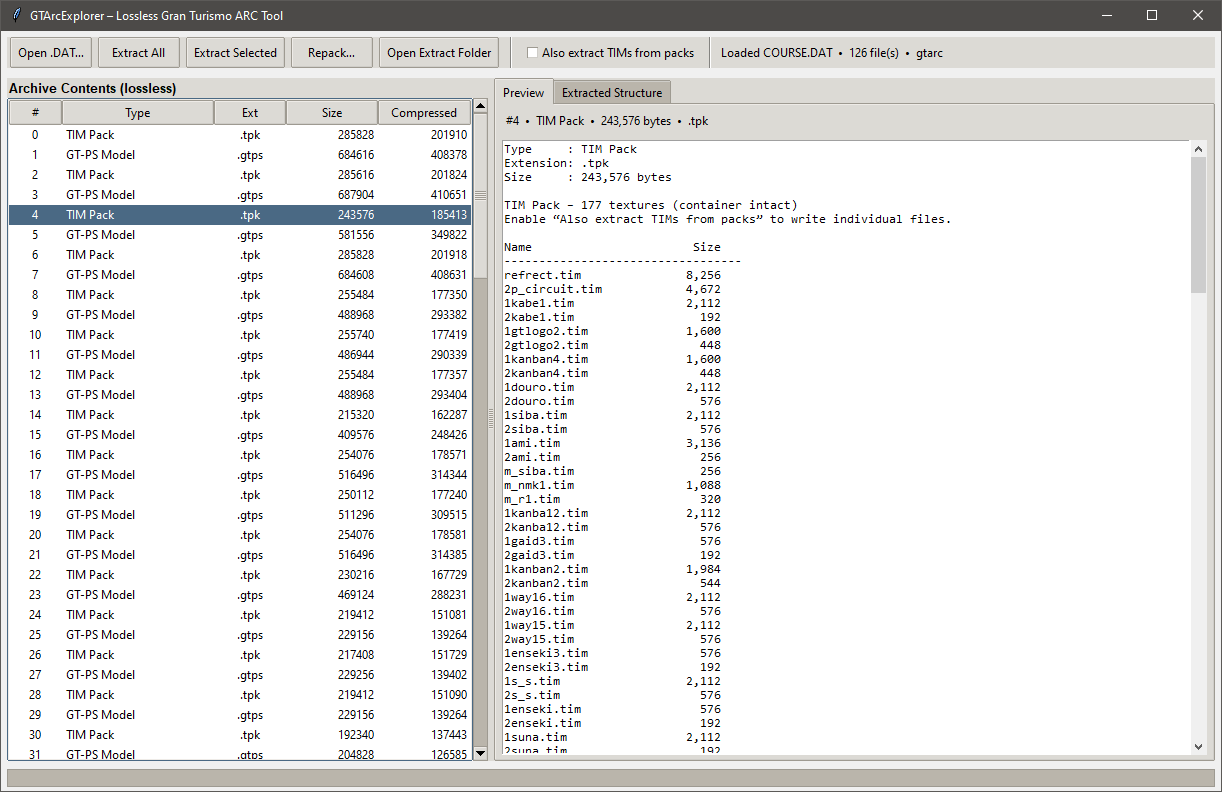
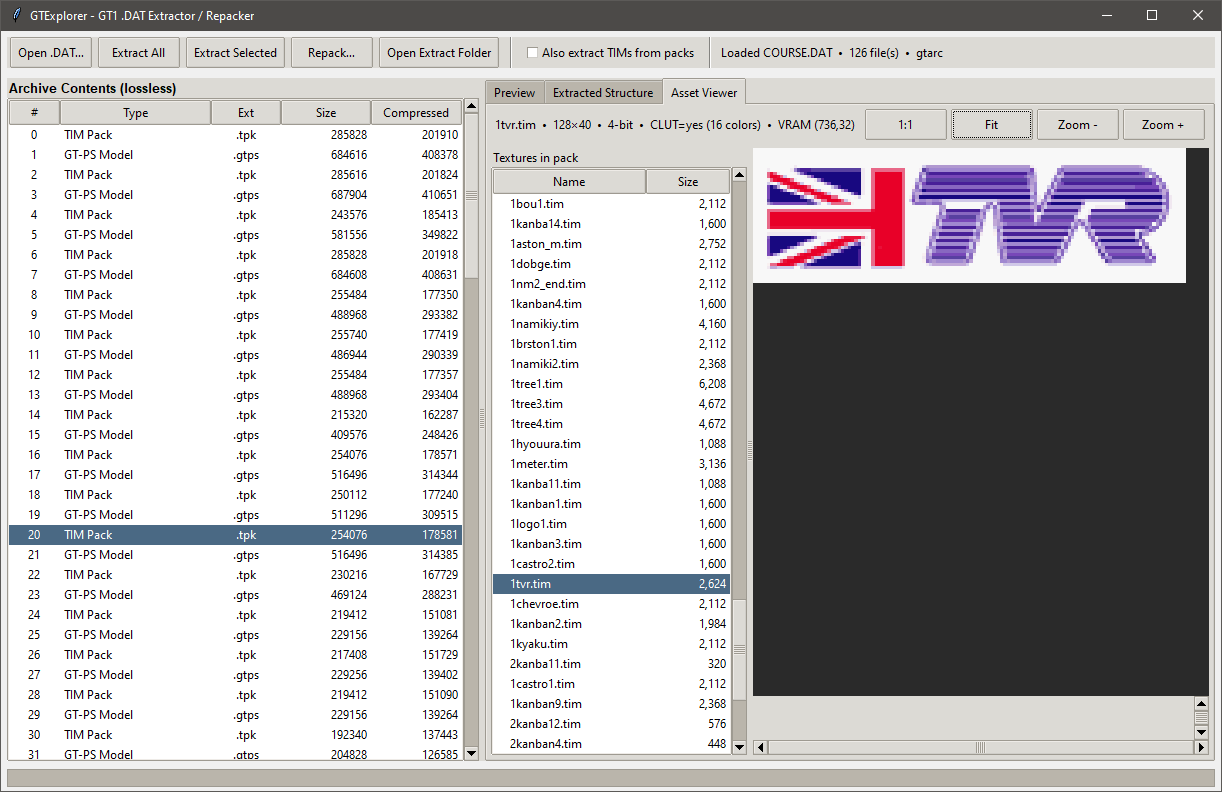
added viewer for tim's

diff --git a/main.py b/main.py
@@ -5,9 +5,15 @@ import threading
 from pathlib import Path
 from tkinter import (
     Tk, StringVar, BooleanVar, filedialog, messagebox, scrolledtext,
-    END, BOTH, LEFT, RIGHT, X, Y, TOP, BOTTOM, W
+    Canvas, END, BOTH, LEFT, RIGHT, X, Y, TOP, BOTTOM, W, NW
 )
 from tkinter import ttk
+try:
+    from PIL import Image, ImageTk
+    HAS_PIL = True
+except ImportError:
+    HAS_PIL = False
+
 
 # GT-ZIP
 def gtzip_decompress(src: bytes, decomp_size: int) -> bytes:
@@ -77,6 +83,7 @@ def gtzip_compress(data: bytes) -> bytes:
 
             if max_len >= 3:
                 h = hash3(i)
+                # search chain (limit depth for speed)
                 chain = 0
                 MAX_CHAIN = 64
                 j = head[h]
@@ -188,6 +195,123 @@ def build_tim_pack(tim_files: list) -> bytes:
         struct.pack_into("<I", out, 4 + i * 20 + 16, off)
 
     return bytes(out)
+
+
+
+def decode_tim(data: bytes):
+    """
+    Decode a PlayStation TIM into a PIL Image (RGBA).
+    Supports 4-bit, 8-bit (with CLUT) and 16-bit direct.
+    Returns (Image, info_dict) or raises ValueError.
+    """
+    from PIL import Image
+
+    if len(data) < 8 or data[0] != 0x10 or data[1] != 0x00:
+        raise ValueError("Not a TIM file")
+
+    flags = struct.unpack_from("<I", data, 4)[0]
+    bpp = flags & 7          # 0=4bit, 1=8bit, 2=16bit, 3=24bit
+    has_clut = bool(flags & 8)
+    pos = 8
+
+    palette = None
+    if has_clut:
+        if pos + 12 > len(data):
+            raise ValueError("Truncated CLUT header")
+        clut_len, cx, cy, cw, ch = struct.unpack_from("<IHHHH", data, pos)
+        pos += 12
+        ncolors = cw * ch
+        palette = []
+        for i in range(ncolors):
+            if pos + 2 > len(data):
+                break
+            c = struct.unpack_from("<H", data, pos)[0]
+            pos += 2
+            r = (c & 0x1F) << 3
+            g = ((c >> 5) & 0x1F) << 3
+            b = ((c >> 10) & 0x1F) << 3
+            a = 0 if (c & 0x8000) == 0 and c == 0 else 255
+            # STP bit: if set, semi-transparent; treat as opaque for preview
+            if c == 0:
+                a = 0
+            palette.append((r, g, b, a))
+        # align to clut_len from start of clut block
+        # (some files pad; we already consumed 12 + ncolors*2)
+
+    if pos + 12 > len(data):
+        raise ValueError("Truncated image header")
+    img_len, ix, iy, iw, ih = struct.unpack_from("<IHHHH", data, pos)
+    pos += 12
+
+    # iw is in 16-bit units (words per row)
+    if bpp == 0:   # 4-bit
+        width = iw * 4
+        bytes_per_row = iw * 2
+    elif bpp == 1:  # 8-bit
+        width = iw * 2
+        bytes_per_row = iw * 2
+    elif bpp == 2:  # 16-bit
+        width = iw
+        bytes_per_row = iw * 2
+    elif bpp == 3:  # 24-bit
+        width = (iw * 2) // 3
+        bytes_per_row = iw * 2
+    else:
+        raise ValueError(f"Unsupported BPP type {bpp}")
+
+    height = ih
+    pixels = []
+
+    for y in range(height):
+        row = data[pos:pos + bytes_per_row]
+        pos += bytes_per_row
+        if bpp == 0:  # 4-bit
+            for x in range(width):
+                byte = row[x // 2] if x // 2 < len(row) else 0
+                idx = (byte & 0x0F) if (x & 1) == 0 else (byte >> 4)
+                if palette and idx < len(palette):
+                    pixels.append(palette[idx])
+                else:
+                    v = idx * 17
+                    pixels.append((v, v, v, 255))
+        elif bpp == 1:  # 8-bit
+            for x in range(width):
+                idx = row[x] if x < len(row) else 0
+                if palette and idx < len(palette):
+                    pixels.append(palette[idx])
+                else:
+                    pixels.append((idx, idx, idx, 255))
+        elif bpp == 2:  # 16-bit
+            for x in range(width):
+                if x * 2 + 1 >= len(row):
+                    pixels.append((0, 0, 0, 0))
+                    continue
+                c = row[x * 2] | (row[x * 2 + 1] << 8)
+                r = (c & 0x1F) << 3
+                g = ((c >> 5) & 0x1F) << 3
+                b = ((c >> 10) & 0x1F) << 3
+                a = 0 if c == 0 else 255
+                pixels.append((r, g, b, a))
+        elif bpp == 3:  # 24-bit
+            for x in range(width):
+                o = x * 3
+                if o + 2 >= len(row):
+                    pixels.append((0, 0, 0, 255))
+                    continue
+                pixels.append((row[o], row[o + 1], row[o + 2], 255))
+
+    img = Image.new("RGBA", (width, height))
+    img.putdata(pixels)
+    info = {
+        "bpp": bpp,
+        "has_clut": has_clut,
+        "width": width,
+        "height": height,
+        "vram_x": ix,
+        "vram_y": iy,
+        "colors": len(palette) if palette else 0,
+    }
+    return img, info
 
 
 def detect_type(data: bytes) -> tuple:
@@ -328,9 +452,10 @@ class GTArc:
             data = self.get_data(i)
             f = self.files[i]
             name = f"{f['label']}{f['ext']}"
-            (out / name).write_bytes(data)        
+            (out / name).write_bytes(data)          # always write original bytes
             manifest.append(name)
 
+            # optional expansion
             if expand_tim_packs and f["type"] == "TIM Pack":
                 tims = parse_tim_pack(data)
                 sub = out / f"{f['label']}_tims"
@@ -373,6 +498,8 @@ class GTArc:
 
         payloads = []
         for ni, name in enumerate(names):
+            # If this is a TIM pack and a matching *_tims folder exists,
+            # rebuild the pack from the individual .tim files so edits are kept.
             p = src / name
             stem = Path(name).stem  # e.g. "000" from "000.tpk"
             tims_dir = src / f"{stem}_tims"
@@ -420,7 +547,7 @@ class GTArc:
 class GTArcExplorer(Tk):
     def __init__(self):
         super().__init__()
-        self.title("GTArcExplorer – Lossless Gran Turismo ARC Tool")
+        self.title("GTExplorer - GT1 .DAT Extractor / Repacker")
         self.geometry("1220x760")
         self.minsize(960, 620)
 
@@ -496,6 +623,52 @@ class GTArcExplorer(Tk):
         sbs.pack(side=RIGHT, fill=Y)
         self.struct_tree.configure(yscrollcommand=sbs.set)
 
+        # --- Asset Viewer tab ---
+        viewer = ttk.Frame(nb)
+        nb.add(viewer, text="Asset Viewer")
+        vtop = ttk.Frame(viewer)
+        vtop.pack(side=TOP, fill=X, padx=6, pady=4)
+        self.viewer_info = ttk.Label(vtop, text="Select a TIM / TIM Pack to preview")
+        self.viewer_info.pack(side=LEFT)
+        ttk.Button(vtop, text="Zoom +", command=lambda: self.viewer_zoom(1.25)).pack(side=RIGHT, padx=2)
+        ttk.Button(vtop, text="Zoom -", command=lambda: self.viewer_zoom(0.8)).pack(side=RIGHT, padx=2)
+        ttk.Button(vtop, text="Fit", command=self.viewer_fit).pack(side=RIGHT, padx=2)
+        ttk.Button(vtop, text="1:1", command=self.viewer_1to1).pack(side=RIGHT, padx=2)
+
+        vbody = ttk.Panedwindow(viewer, orient="horizontal")
+        vbody.pack(fill=BOTH, expand=True, padx=4, pady=4)
+
+        # TIM list inside packs
+        left_v = ttk.Frame(vbody)
+        vbody.add(left_v, weight=1)
+        ttk.Label(left_v, text="Textures in pack").pack(anchor=W)
+        self.tim_list = ttk.Treeview(left_v, columns=("size",), show="tree headings", selectmode="browse")
+        self.tim_list.heading("#0", text="Name")
+        self.tim_list.heading("size", text="Size")
+        self.tim_list.column("#0", width=140)
+        self.tim_list.column("size", width=70, anchor="e")
+        self.tim_list.pack(fill=BOTH, expand=True, side=LEFT)
+        sbt = ttk.Scrollbar(left_v, orient="vertical", command=self.tim_list.yview)
+        sbt.pack(side=RIGHT, fill=Y)
+        self.tim_list.configure(yscrollcommand=sbt.set)
+        self.tim_list.bind("<<TreeviewSelect>>", self.on_tim_list_select)
+
+        # Canvas for image
+        right_v = ttk.Frame(vbody)
+        vbody.add(right_v, weight=3)
+        self.viewer_canvas = Canvas(right_v, bg="#2a2a2a", highlightthickness=0)
+        self.viewer_canvas.pack(fill=BOTH, expand=True)
+        hsb = ttk.Scrollbar(right_v, orient="horizontal", command=self.viewer_canvas.xview)
+        hsb.pack(side=BOTTOM, fill=X)
+        vsb = ttk.Scrollbar(right_v, orient="vertical", command=self.viewer_canvas.yview)
+        vsb.pack(side=RIGHT, fill=Y)
+        self.viewer_canvas.configure(xscrollcommand=hsb.set, yscrollcommand=vsb.set)
+
+        self._viewer_image = None       # PIL Image
+        self._viewer_photo = None       # ImageTk
+        self._viewer_scale = 1.0
+        self._pack_tims = []            # list of (name, bytes) for current pack
+
         self.progress = ttk.Progressbar(self, mode="determinate")
         self.progress.pack(side=BOTTOM, fill=X, padx=6, pady=4)
 
@@ -568,6 +741,11 @@ class GTArcExplorer(Tk):
                 self.preview_text.insert(END, "-" * 34 + "\n")
                 for name, tim in tims:
                     self.preview_text.insert(END, f"{name:<20} {len(tim):>10,}\n")
+                self.show_pack_in_viewer(data)
+            elif f["type"] == "TIM Texture":
+                self.tim_list.delete(*self.tim_list.get_children())
+                self._pack_tims = []
+                self.show_in_viewer(data, f["label"] + f["ext"])
             else:
                 self.preview_text.insert(END, "=== Hex dump (first 256 bytes) ===\n")
                 chunk = data[:256]
@@ -691,6 +869,86 @@ class GTArcExplorer(Tk):
                 os.system(f'xdg-open "{self.extract_dir}"')
         else:
             messagebox.showinfo("No folder", "Extract first")
+
+
+    def show_in_viewer(self, data: bytes, label: str = ""):
+        """Decode TIM data and display it."""
+        if not HAS_PIL:
+            self.viewer_info.config(text="Pillow not installed – cannot display images")
+            return
+        try:
+            img, info = decode_tim(data)
+            self._viewer_image = img
+            self._viewer_scale = 1.0
+            bpp_names = {0: "4-bit", 1: "8-bit", 2: "16-bit", 3: "24-bit"}
+            self.viewer_info.config(
+                text=f"{label}  •  {info['width']}×{info['height']}  •  "
+                     f"{bpp_names.get(info['bpp'], '?')}  •  "
+                     f"CLUT={'yes' if info['has_clut'] else 'no'} ({info['colors']} colors)  •  "
+                     f"VRAM ({info['vram_x']},{info['vram_y']})"
+            )
+            self._render_viewer()
+        except Exception as e:
+            self.viewer_info.config(text=f"Cannot decode: {e}")
+            self.viewer_canvas.delete("all")
+            self._viewer_image = None
+
+    def show_pack_in_viewer(self, data: bytes):
+        """Populate TIM list from a pack and show the first texture."""
+        self.tim_list.delete(*self.tim_list.get_children())
+        self._pack_tims = parse_tim_pack(data)
+        for i, (name, tdata) in enumerate(self._pack_tims):
+            self.tim_list.insert("", END, iid=str(i), text=name,
+                                 values=(f"{len(tdata):,}",))
+        if self._pack_tims:
+            self.tim_list.selection_set("0")
+            self.tim_list.focus("0")
+            self.show_in_viewer(self._pack_tims[0][1], self._pack_tims[0][0])
+        else:
+            self.viewer_info.config(text="Empty TIM pack")
+            self.viewer_canvas.delete("all")
+
+    def on_tim_list_select(self, _event=None):
+        sel = self.tim_list.selection()
+        if not sel:
+            return
+        i = int(sel[0])
+        if 0 <= i < len(self._pack_tims):
+            name, tdata = self._pack_tims[i]
+            self.show_in_viewer(tdata, name)
+
+    def _render_viewer(self):
+        if self._viewer_image is None or not HAS_PIL:
+            return
+        img = self._viewer_image
+        scale = self._viewer_scale
+        w = max(1, int(img.width * scale))
+        h = max(1, int(img.height * scale))
+        resized = img.resize((w, h), Image.NEAREST)
+        self._viewer_photo = ImageTk.PhotoImage(resized)
+        self.viewer_canvas.delete("all")
+        self.viewer_canvas.create_image(0, 0, anchor=NW, image=self._viewer_photo)
+        self.viewer_canvas.configure(scrollregion=(0, 0, w, h))
+
+    def viewer_zoom(self, factor):
+        if self._viewer_image is None:
+            return
+        self._viewer_scale = max(0.1, min(16.0, self._viewer_scale * factor))
+        self._render_viewer()
+
+    def viewer_1to1(self):
+        self._viewer_scale = 1.0
+        self._render_viewer()
+
+    def viewer_fit(self):
+        if self._viewer_image is None:
+            return
+        cw = self.viewer_canvas.winfo_width() or 400
+        ch = self.viewer_canvas.winfo_height() or 300
+        sx = cw / self._viewer_image.width
+        sy = ch / self._viewer_image.height
+        self._viewer_scale = max(0.1, min(sx, sy) * 0.95)
+        self._render_viewer()
 
     def populate_struct_tree(self, root: Path):
         self.struct_tree.delete(*self.struct_tree.get_children())
